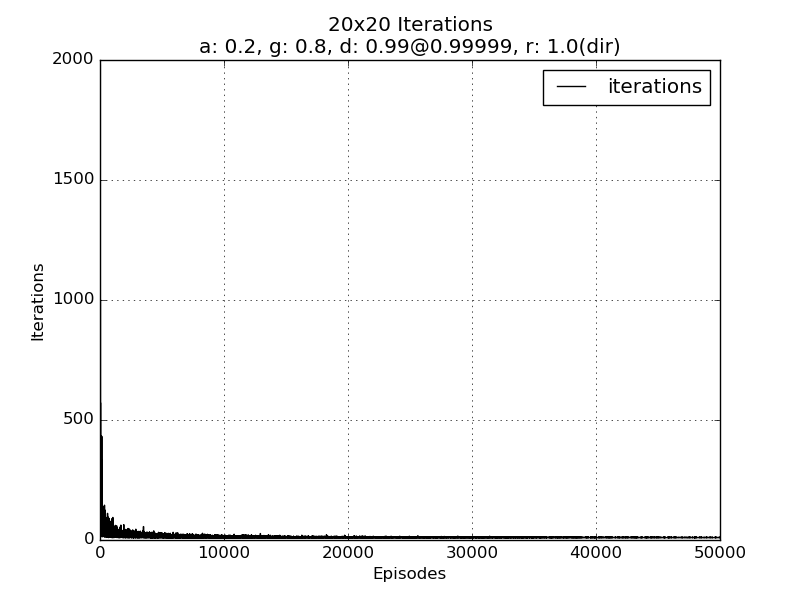
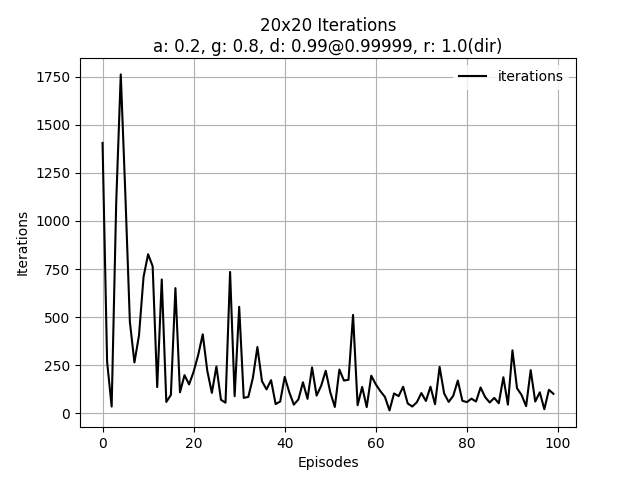
updated

diff --git a/Assignment4/mdp_test.py b/Assignment4/mdp_test.py
@@ -382,8 +382,6 @@ class part1():
                     'Iterations',
                     fn)
         
-        if grid.shape[0] > 10:
-            q.episode_reward = q.episode_reward - 100000
             
         title = str(grid.shape[0]) + 'x' + str(grid.shape[1]) + ' Rewards/Iterations\na: ' + str(q.alpha) + ', g: ' + str(q.gamma) + ', d: ' + str(q.orig_rar) + '@' + str(q.radr) + ', r: ' + str(k) + '(' + d_str + ')'
         fn = './output/' + str(grid.shape[0]) + 'x' + str(grid.shape[1]) + 'rewards_iterations_' + str(q.alpha) + '_' + str(q.gamma) + '_' + str(q.orig_rar) + '_' + str(q.radr) + '_' + str(k) + '_' + d_str + '.png'
@@ -470,7 +468,7 @@ class part1():
             fn = './output/' + str(grid.shape[0]) + 'x' + str(grid.shape[1]) + '_layout.png'        
             ph.plot_layout(grid, title, fn)
             
-            self.run_and_plot_qlearner(grid, d=True, k=1.0, alpha=0.2, gamma=0.8, rar=0.99, rard=0.99999, n_restarts=1000, n_iter=1000000)
+            self.run_and_plot_qlearner(grid, d=True, k=1.0, alpha=0.2, gamma=0.8, rar=0.99, rard=0.999, n_restarts=30000, n_iter=1000000)
             #self.run_value_iteration_and_plot(grid, k=1.0, d=True, discount=0.9, epsilon=0.00001)
             #self.run_policy_iteration_and_plot(grid, k=1.0, d=True, discount=0.9, epsilon=0.00001)
             
